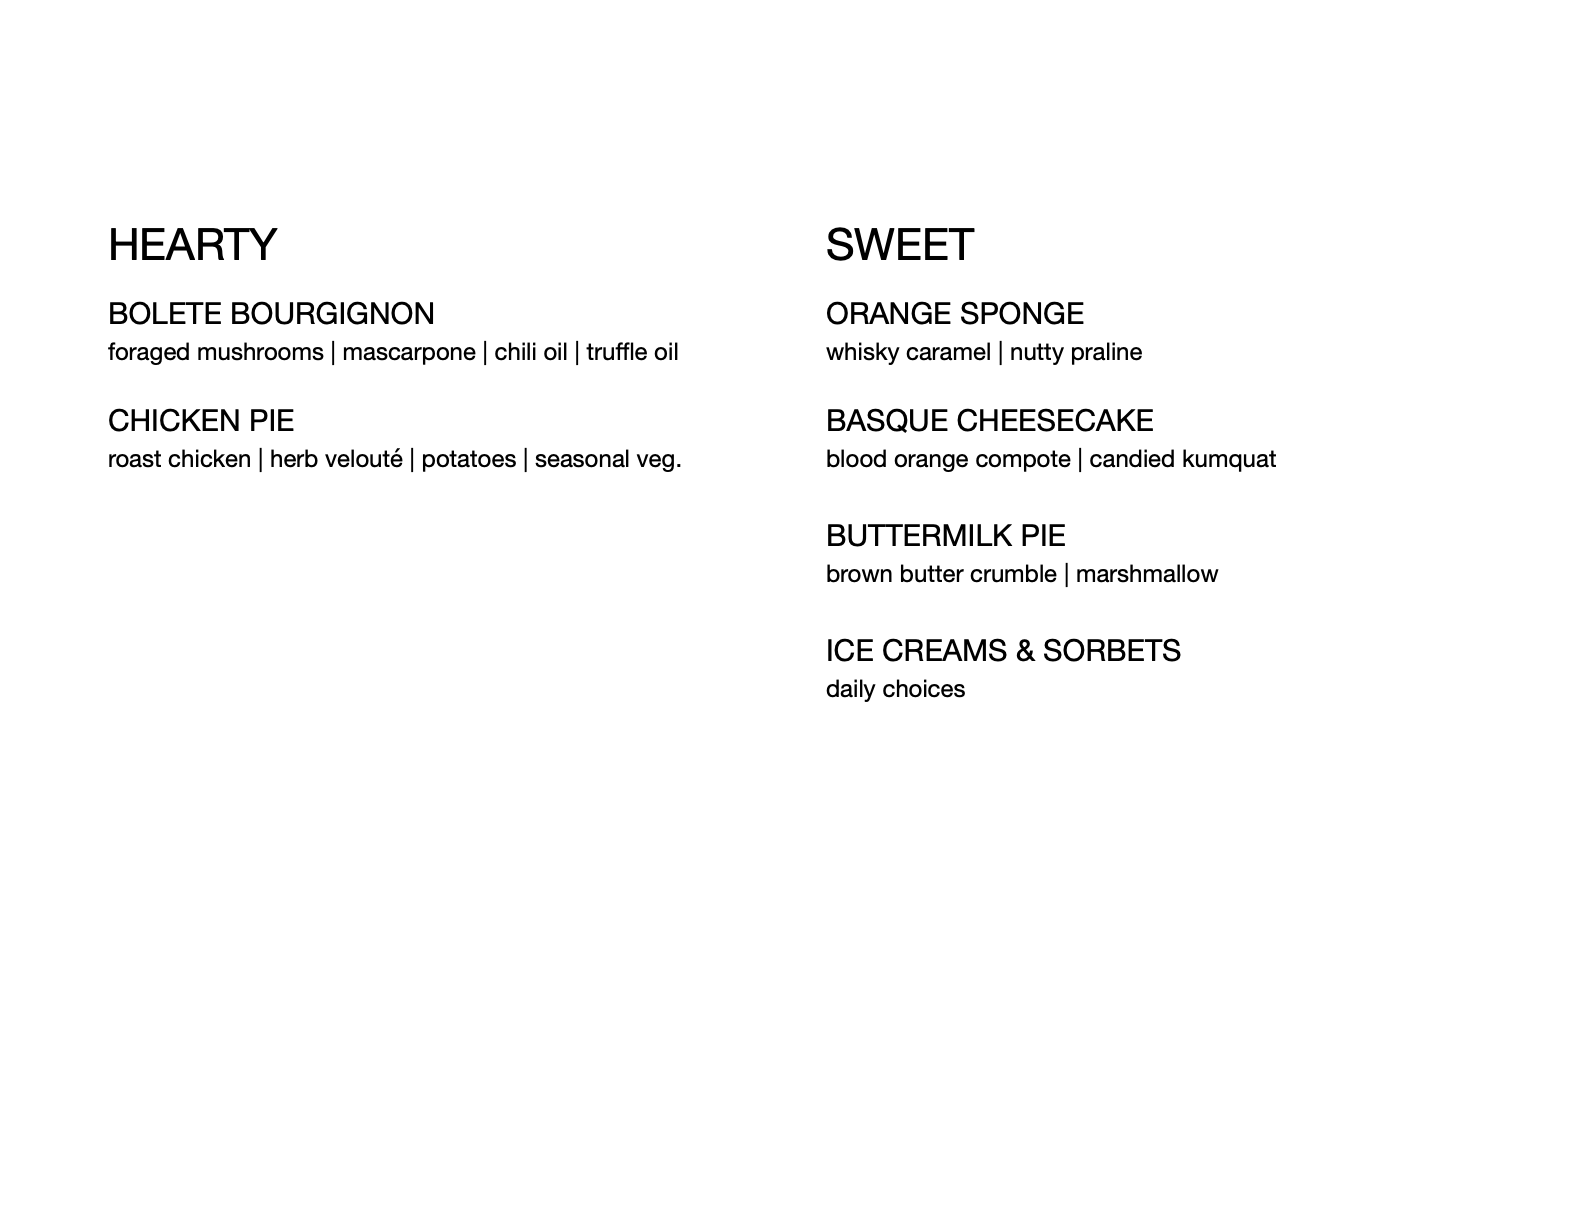
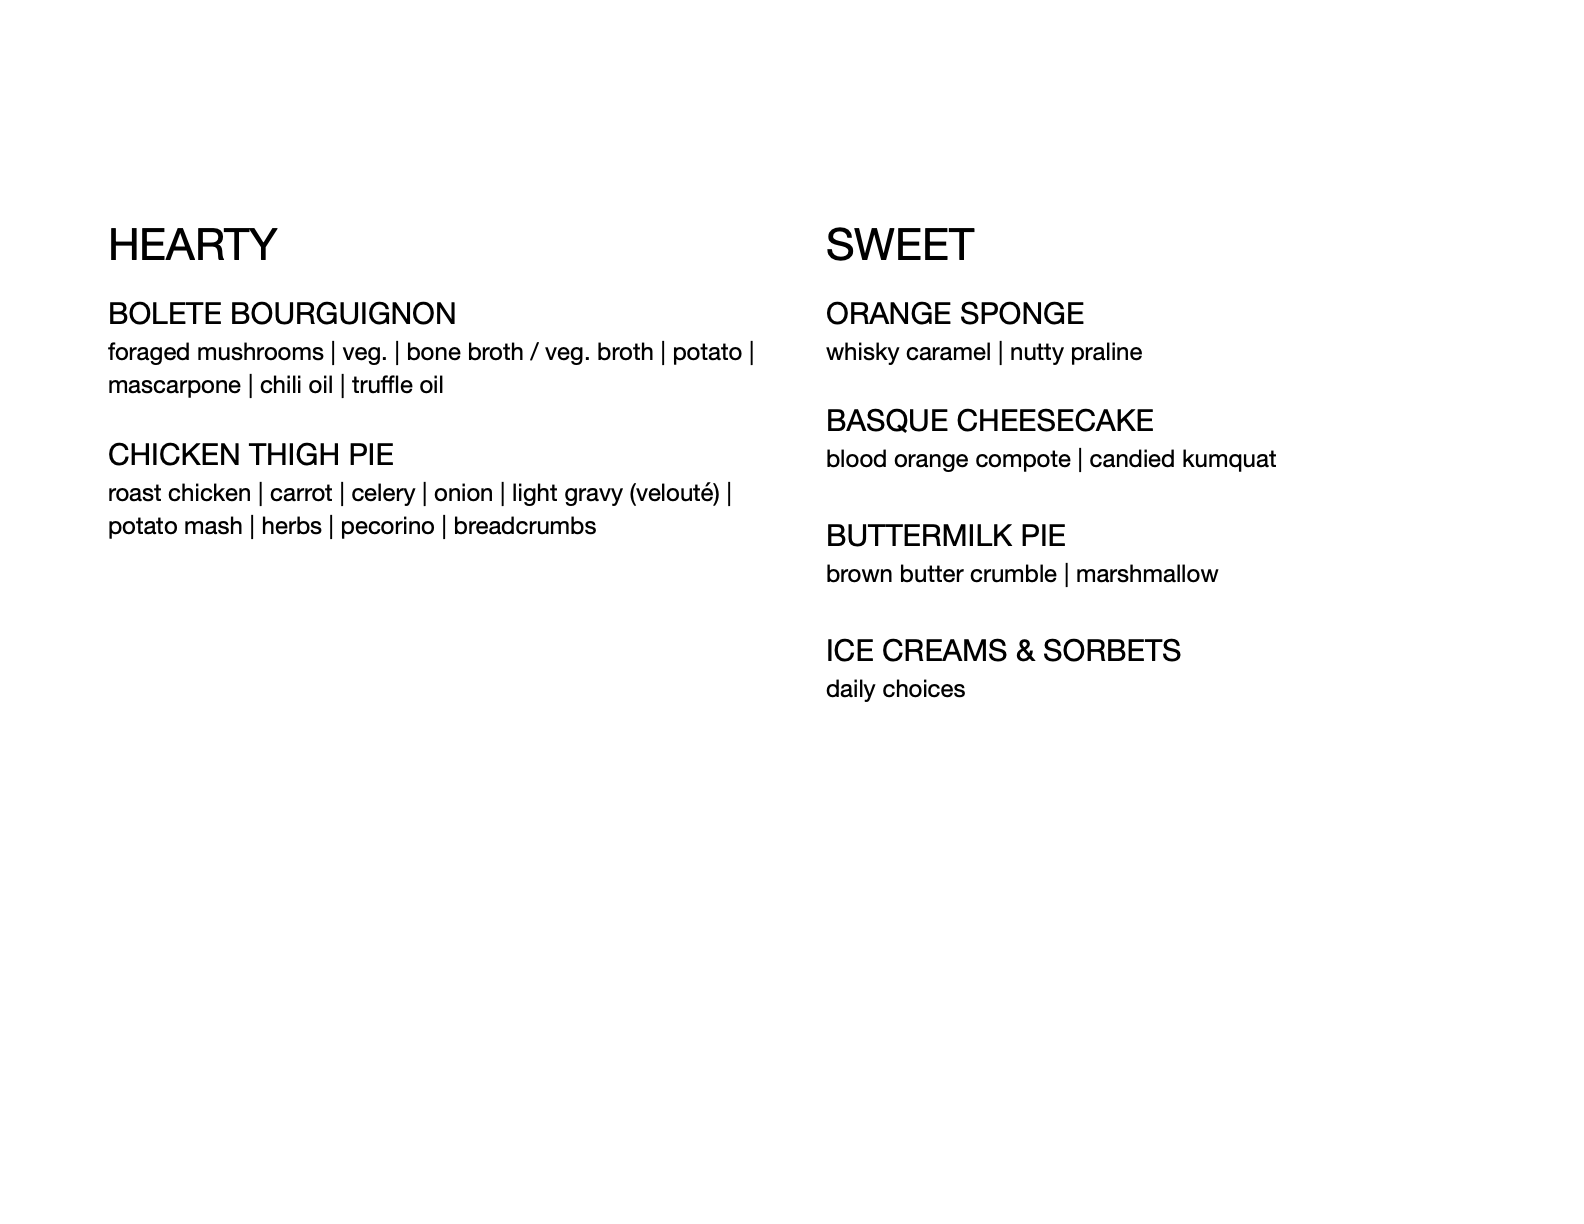
Update menu, copy, start contact form

Changed region(s): [[0.0619, 0.2484, 0.464, 0.4346]]

diff --git a/src/api/contact.js b/src/api/contact.js
@@ -1,0 +1,41 @@
+import nodemailer from 'nodemailer';
+
+export async function POST({ request }) {
+  const formData = await request.formData();
+  const email = formData.get('email');
+  const message = formData.get('message');
+
+  // Server-side validation
+  const errors = {};
+  if (!email) errors.email = 'Email is required';
+  if (!message) errors.message = 'Message is required';
+  if (email && !/^\S+@\S+\.\S+$/.test(email)) errors.email = 'Invalid email format';
+
+  if (Object.keys(errors).length > 0) {
+    return new Response(JSON.stringify({ errors }), { status: 400 });
+  }
+
+  try {
+    const transporter = nodemailer.createTransport({
+      host: process.env.SMTP_HOST,
+      port: process.env.SMTP_PORT,
+      secure: true,
+      auth: {
+        user: process.env.SMTP_USER,
+        pass: process.env.SMTP_PASS,
+      },
+    });
+
+    await transporter.sendMail({
+      from: email,
+      to: 'catering@ryanblakeley.net',
+      subject: 'Catering contact form',
+      text: message,
+      html: `<p>${message.replace(/\n/g, '<br>')}</p>`,
+    });
+
+    return new Response(JSON.stringify({ success: true }), { status: 200 });
+  } catch (error) {
+    return new Response(JSON.stringify({ error: 'Failed to send email' }), { status: 500 });
+  }
+}

diff --git a/src/actions/index.ts b/src/actions/index.ts
@@ -1,0 +1,13 @@
+import { defineAction } from 'astro:actions';
+import { z } from 'astro:schema';
+
+export const server = {
+  contactForm: defineAction({
+    accept: 'form',
+    input: z.object({
+      email: z.string().email(),
+      message: z.string(),
+    }),
+    handler: async ({ email, message }) => { /* ... */ },
+  })
+}
